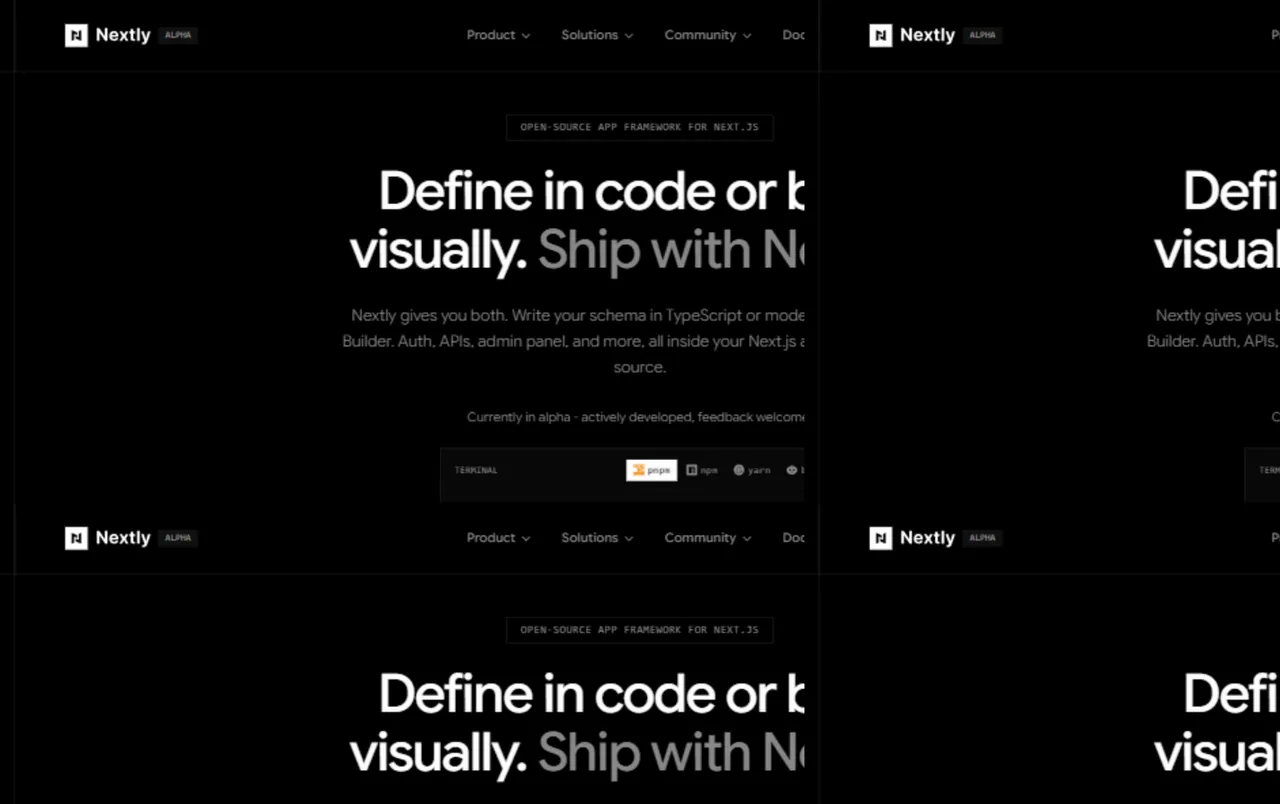
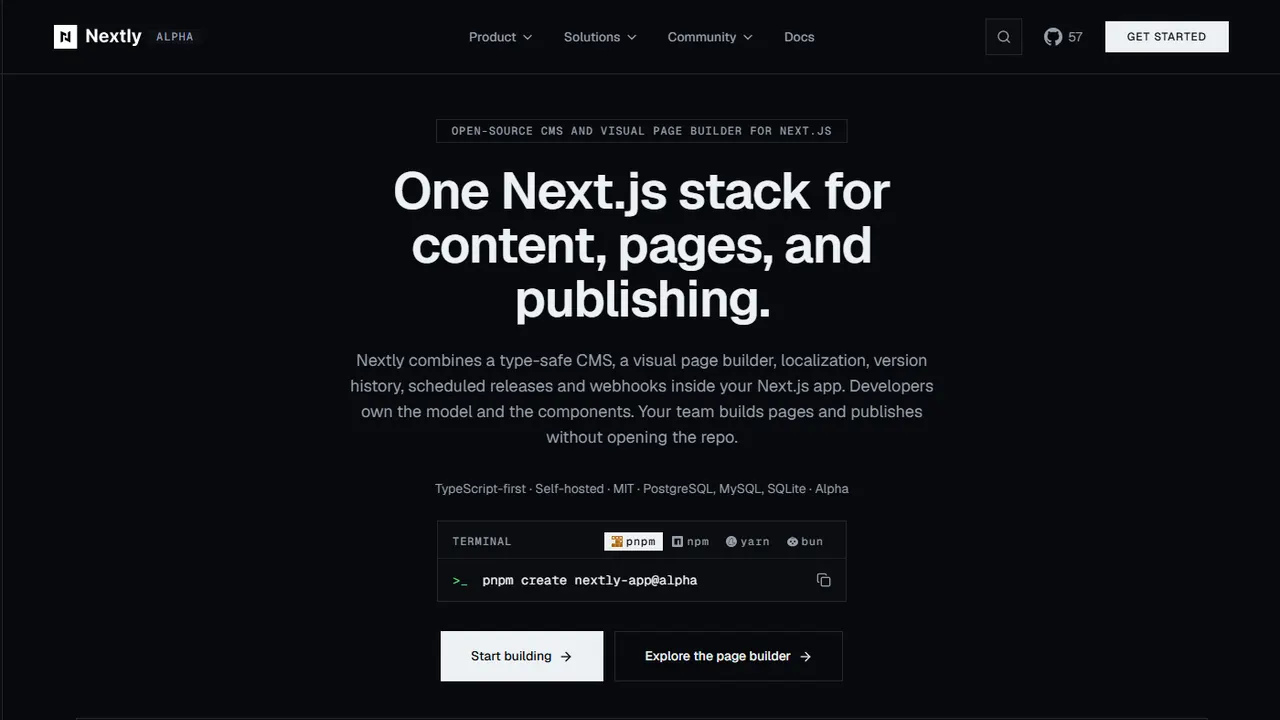
Update projects to match new CV + fresh screenshots
- Refresh all 7 project descriptions and tech chips from the new CV
- Replace Nextly, RextAI, 4Rivers, 21Century and Shopify CRO images
  with new site screenshots
- Drop CodexSpot; add YouTube Automation (AI content factory) with a
  terminal-style pipeline card and no live-site link
- Rename HireIQ to HireIQ (Evalyn); Shopify CRO -> Shopify CRO Studio

diff --git a/components/Work.tsx b/components/Work.tsx
@@ -17,35 +17,35 @@ type MoreProject = {
   desc: string;
   chips: string[];
   image: string;
-  live: string;
+  live: string | null;
 };
 
 const PROJECTS: Project[] = [
   {
     name: "Nextly",
-    desc: "TypeScript-first headless CMS framework inside Next.js — code-defined schemas plus a drag-and-drop visual builder, RBAC, and pluggable Postgres/MySQL/SQLite adapters.",
-    chips: ["Next.js", "TypeScript", "Node.js", "Drizzle ORM", "Docker", "NPM (Package Publishing)", "CLI Development"],
+    desc: "Open-source headless CMS & visual page builder for Next.js — on npm and accepted into the Vercel OSS Program. Server-rendered blocks, field-level RBAC, version history, scheduled releases and pluggable DB/storage adapters.",
+    chips: ["Next.js", "TypeScript", "Drizzle ORM", "Node.js", "TanStack Query", "Docker", "Monorepo"],
     image: "/projects/nextly-real.webp",
     live: "https://nextlyhq.com/",
   },
   {
     name: "RextAI",
-    desc: "AI content-intelligence SaaS with an E-E-A-T-aware article editor and one-click auto-publish to WordPress, Webflow and Ghost.",
-    chips: ["Next.js", "LangChain", "OpenAI", "Python"],
+    desc: "AI content-intelligence & SEO platform trusted by 500+ teams (4.8/5 on G2) — 2,000+ word E-E-A-T articles with a humanization layer, on-page SEO automation and one-click auto-publish to WordPress, Webflow, Ghost and Shopify.",
+    chips: ["Next.js", "React", "TypeScript", "Node.js", "OpenAI API", "Tailwind CSS"],
     image: "/projects/rextai-real.webp",
     live: "https://rext.ai/",
   },
   {
-    name: "HireIQ",
-    desc: "AI-powered recruitment and candidate-evaluation platform built on LangGraph agent workflows.",
-    chips: ["Next.js", "TypeScript", "LangGraph", "OpenAI"],
+    name: "HireIQ (Evalyn)",
+    desc: "AI-powered recruitment & evaluation platform that cuts screening time by 90% — automated AI interviews, real-time coding assessments with instant scoring, and smart candidate matching with per-candidate AI insights.",
+    chips: ["Next.js", "React", "TypeScript", "Node.js", "OpenAI API", "Tailwind CSS"],
     image: "/projects/hireiq-real.webp",
     live: "https://evalyn-omega.vercel.app/",
   },
   {
     name: "4Rivers Equipment",
-    desc: "Enterprise e-commerce and equipment-rental platform with Stripe checkout and Google Maps location search.",
-    chips: ["Next.js", "Redux Toolkit", "Stripe", "Google Maps"],
+    desc: "Enterprise e-commerce & rental platform for a John Deere / Wirtgen dealership serving three US states — migrated from WordPress to Nextly with shop filtering, customer accounts, quote-based checkout and CMS-driven pages.",
+    chips: ["Next.js", "Nextly CMS", "React", "TypeScript", "Redux Toolkit", "Google Maps API"],
     image: "/projects/4rivers-real.webp",
     live: "https://4riversequipment.com/",
   },
@@ -54,27 +54,27 @@ const PROJECTS: Project[] = [
 const MORE_PROJECTS: MoreProject[] = [
   {
     name: "21Century Equipment",
-    tagline: "B2B Equipment Management Platform",
-    desc: "B2B equipment management platform with Stripe billing and Google Maps-based inventory and location search.",
-    chips: ["Next.js", "Redux Toolkit", "Stripe", "Google Maps"],
+    tagline: "John Deere Dealership E-Commerce",
+    desc: "Rebuilt the John Deere dealership storefront on Nextly, migrating off WordPress — structured catalog browsing, cart & quote flows, dealer locator map, IntelliDealer customer portal and OEM parts portal.",
+    chips: ["Next.js", "Nextly CMS", "Redux Toolkit", "Google Maps API"],
     image: "/projects/21century-real.webp",
     live: "https://21stcenturyequipment.com/",
   },
   {
-    name: "CodexSpot",
-    tagline: "Developer Knowledge & Resource Hub",
-    desc: "A knowledge base and resource hub for developers to share code snippets, guides and tooling.",
-    chips: ["Next.js", "TypeScript", "PostgreSQL", "Tailwind CSS"],
-    image: "/projects/codexspot-real.webp",
-    live: "https://codexspot.com/",
-  },
-  {
-    name: "Shopify CRO",
-    tagline: "Conversion-Rate Optimization",
-    desc: "High-converting Shopify storefront work — fast, polished landing experiences tuned for conversion.",
+    name: "Shopify CRO Studio",
+    tagline: "Conversion Rate Optimization for Shopify Brands",
+    desc: "CRO platform for Shopify / Shopify Plus brands — audits, A/B testing and page-speed work with measurable case-study lifts (+22% subscription rate, +14.2% mobile conversion), plus Shopify SEO, AI SEO and GEO.",
     chips: ["Next.js", "React", "TypeScript", "Tailwind CSS"],
     image: "/projects/shopify-cro-real.webp",
     live: "https://cro-nu.vercel.app/",
+  },
+  {
+    name: "YouTube Automation",
+    tagline: "Multi-Channel AI Content Factory",
+    desc: "Four branded YouTube channels produced daily by GitHub Actions cron pipelines — Node.js engines for trend research, Ollama metadata and Whisper narration, published via the YouTube Data API with 5-platform cross-posting.",
+    chips: ["Node.js", "GitHub Actions", "MCP", "Ollama", "Whisper"],
+    image: "/projects/youtube-automation.webp",
+    live: null,
   },
 ];
 
@@ -215,19 +215,29 @@ export default function Work() {
             <div className="more-grid">
               {MORE_PROJECTS.map((project, i) => (
                 <article className="more-card" key={project.name}>
-                  <a
-                    className="more-card__media"
-                    href={project.live}
-                    target="_blank"
-                    rel="noopener noreferrer"
-                    aria-label={`Visit ${project.name} live site`}
-                  >
-                    <img
-                      src={project.image}
-                      alt={`${project.name} — screenshot`}
-                      loading="lazy"
-                    />
-                  </a>
+                  {project.live ? (
+                    <a
+                      className="more-card__media"
+                      href={project.live}
+                      target="_blank"
+                      rel="noopener noreferrer"
+                      aria-label={`Visit ${project.name} live site`}
+                    >
+                      <img
+                        src={project.image}
+                        alt={`${project.name} — screenshot`}
+                        loading="lazy"
+                      />
+                    </a>
+                  ) : (
+                    <div className="more-card__media">
+                      <img
+                        src={project.image}
+                        alt={`${project.name} — pipeline`}
+                        loading="lazy"
+                      />
+                    </div>
+                  )}
                   <span className="more-card__num">
                     0{PROJECTS.length + i + 1}
                   </span>
@@ -241,14 +251,20 @@ export default function Work() {
                       </span>
                     ))}
                   </div>
-                  <a
-                    className="more-card__link"
-                    href={project.live}
-                    target="_blank"
-                    rel="noopener noreferrer"
-                  >
-                    Visit live site ↗
-                  </a>
+                  {project.live ? (
+                    <a
+                      className="more-card__link"
+                      href={project.live}
+                      target="_blank"
+                      rel="noopener noreferrer"
+                    >
+                      Visit live site ↗
+                    </a>
+                  ) : (
+                    <span className="more-card__link more-card__link--static">
+                      CI-run automation — no public URL
+                    </span>
+                  )}
                 </article>
               ))}
             </div>

diff --git a/app/globals.css b/app/globals.css
@@ -979,6 +979,16 @@ canvas {
   opacity: 0.7;
 }
 
+.more-card__link--static {
+  color: var(--muted);
+  border-bottom-color: var(--line);
+  cursor: default;
+}
+
+.more-card__link--static:hover {
+  opacity: 1;
+}
+
 .more-toggle {
   display: inline-flex;
   align-items: center;
